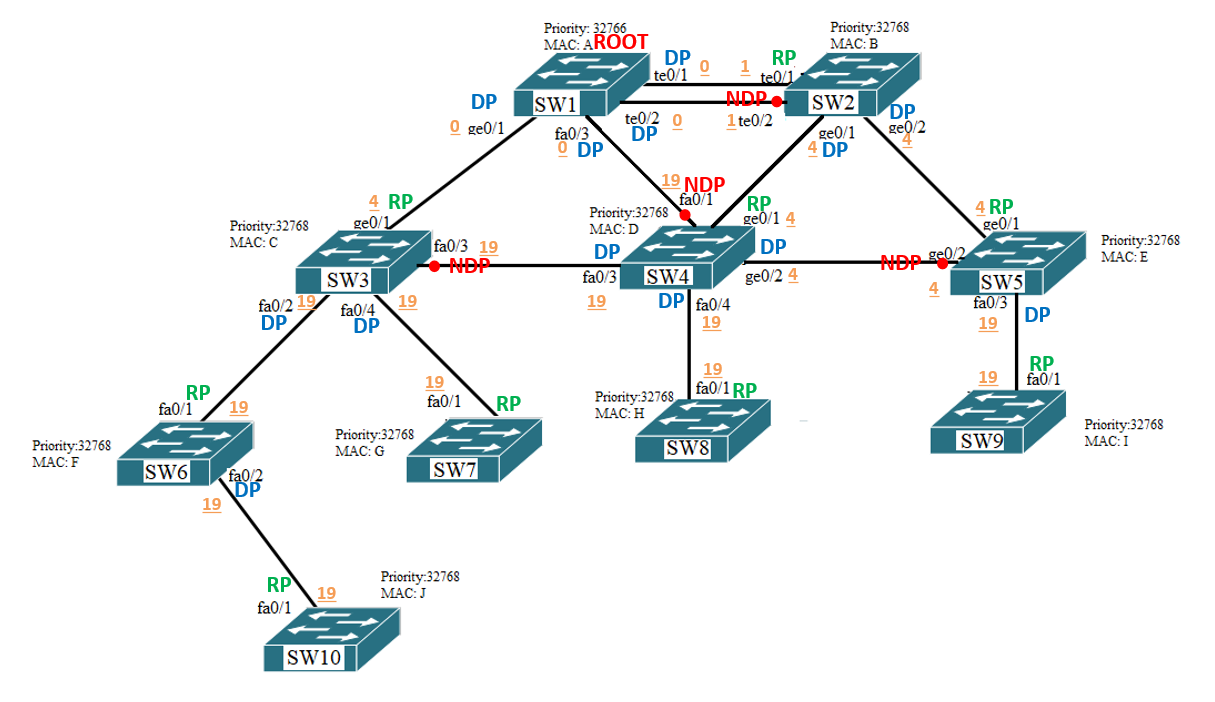
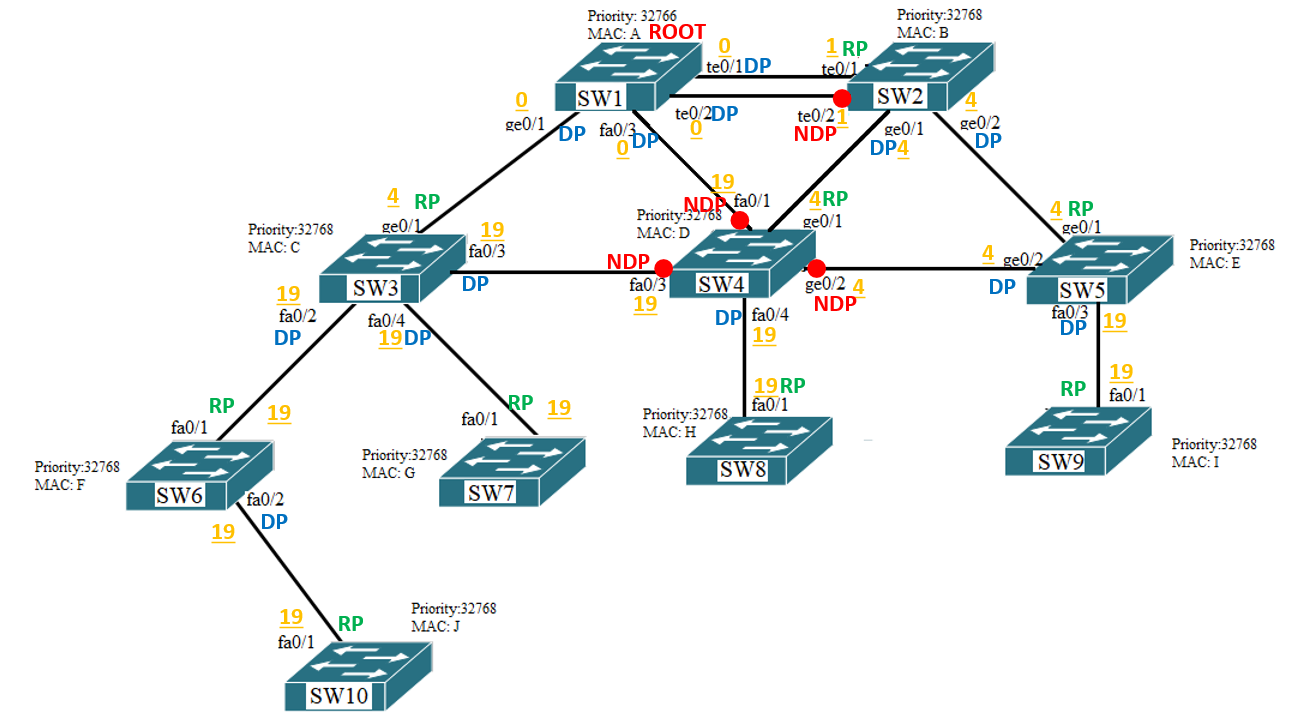
ntw26 hw.3.2.v1

Changed region(s): [[0.1827, 0.0, 0.9745, 0.688], [0.0, 0.5385, 0.3959, 0.9872], [0.2741, 0.4786, 0.4568, 0.7179]]

diff --git a/03.RSNT-26/03.02.RSNT-26.HW.md b/03.RSNT-26/03.02.RSNT-26.HW.md
@@ -12,10 +12,10 @@
 > *Приведите ответ в виде картинки со схемой (внесите изменения) или в виде таблицы. Обоснование в свободной форме.*
 
 *Ответ:*  
-1. <u>Определение корневого коммутатора</u>. Корневым становится тот, у кого меньше значение `BID`. Так как по условиям задачи `Priority port` у всех одинаков, выигрывает устройство с наименьшим MAC - адресом, т.е. `SW1`. Все порты у корневого коммутатора - `DP`;
+1. <u>Определение корневого коммутатора</u>. Корневым становится тот, у кого меньше значение `BID`. В данном случае выигрывает устройство с наименьшим значением `Priority`, т.е. `SW1`. Все порты у корневого коммутатора - `DP`;
 2. Для определения <u>корневого порта</u> в STP используется метрика, которая указывается в поле `BPDU` - `Root Path Cost` (стоимость маршрута до корневого свича). Данная стоимость определяется по скорости канала;
 3. `Designated Port` (назначенный) - <u>некорневой порт</u> моста между сегментами сети, принимающий трафик из соответствующего сегмента;
-4. `Nondesignated Port` - <u>неназначенный порт</u> сегмента - порт, не являющийся корневым, или назначенным. Передача фреймов данных через такой порт запрещена.  
+4. `Non-designated Port` - <u>неназначенный порт</u> сегмента - порт, не являющийся корневым, или назначенным. Передача фреймов данных через такой порт запрещена.  
 В результате работы протокола STP получается следующая древовидная топология сети во главе с корневым коммутатором:  
 
 ![](_attachments/0302-01-01.png)  
@@ -27,8 +27,8 @@
 > *Приведите ответ в виде картинки со схемой (внесите изменения) или в виде таблицы. Обоснование в свободной форме.*
 
 *Ответ:*  
-Для изменения корневого коммутатора необходимо изменить (уменьшить) параметр `Priority` у выбранного свича. Значение поля priority по умолчанию равно 32768, может задаваться администратором сети. Шаг - 4096.
-Для примера, зададим параметр `Priority` для `SW3`, равным 28672.
+Для изменения корневого коммутатора необходимо изменить (уменьшить) параметр `Priority` у выбранного свича. Значение поля priority по умолчанию равно 32768, может задаваться администратором сети. Шаг - 4096. 
+Для примера, зададим параметр `Priority` для `SW3`, равным 24576.
 В результате работы протокола STP получается следующая древовидная топология сети:
 
 ![](_attachments/0302-02-01.png)  
@@ -37,4 +37,9 @@
 > *Приведите ответ в свободной форме.*
 
 *Ответ:*  
-
+Когда топология сети изменяется, алгоритм RSTP выполняет следующие действия:
+1. При изменении в топологии сети (например, добавление нового устройства или изменение структуры сети), коммутаторы инициируют процесс обнаружения изменений и рассылают через все порты (корневой и назначенные) BPDU c флагом TC;
+2. Коммутаторы удаляют из таблицы все MAC адреса доступные через не edge порты, за исключением того, где был получен BPDU c флагом TC);
+3. Определяются порты, которые должны быть заблокированы или переведены в состояние пересчета на основе обновленной информации;
+4. Пересчитываются пути до корневого коммутатора, определяются новые пути и блокируются ненужные;
+5. Новая топология сети активируется, коммутаторы начинают пересылать данные в соответствии с обновленной структурой.
